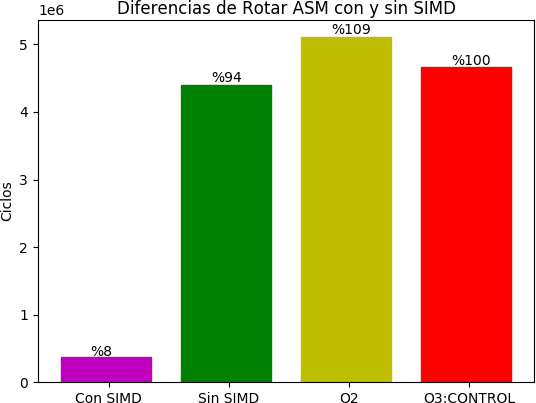
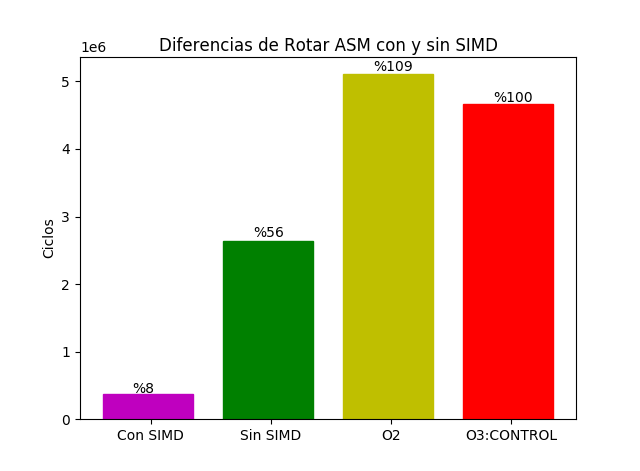
informe

diff --git a/informe/Rotar.tex b/informe/Rotar.tex
@@ -50,14 +50,15 @@ Luego se guarda en memoria en la imagen destino, se incrementa el contador en 4 
 \par{La hipótesis que tuvimos sobre la primera idea era que efectivamente íbamos a notar un cambio ya que íbamos a estar procesando la mitad de píxeles por iteración. También suponíamos que iba a ser más complicado manipular los píxeles al no contar con instrucciones como \textbf{shuffle}, \textbf{unpacked}, \textbf{psrlx} y \textbf{psllx}.}
 	
 \subsubsection{Resultados}
-\par{Efectivamente vimos una notoria diferencia entre el código en ASM con y sin SIMD, más aún, el código optimizado de C se encuentra casi a la par. \textcolor{red}{EXPLICACION DEL CODIGO SIN SIMD!!!!}}
+\par{Efectivamente vimos una notoria diferencia entre el código en ASM con y sin SIMD.
+Para la implementación del filtro "sin SIMD" utilizamos intrucciones de enteros y manipulamos cada pixel por separado, de esta manera nos aseguramos ya que esta implementación sea 4 veces menos eficaz. Para esto implementamos dos códigos distintos, uno cargaba de a dos píxeles, procesaba sus atributos por separado, guardaba la información en un registro de 64 bits y luego escribía a memoria. El otro cargaba cada atributo por separado, es decir leíamos de a byte y luego escribíamos de a byte. Ambos son menos eficientes que el código con instrucciones SSE, pero no se vieron  cambios significantes en el tiempo de ejecución de ambos al compararlos entre sí. En el gráfico a continuación se compra con la primera implementación explicada, que es ligeramente mejor que la segunda. En particular ambas son entre 6 y 7 veces menos eficaces que el código con SIMD aproximadamente. Atribuímos esto a que no sólo se procesa de a menos píxeles sino que también se lee de esta manera, lo que influye aún más en el tiempo de ejecución.}
 \par{A continuación adjuntamos un gráfico en el que se puede apreciar dicha diferencia.}
 	
 \begin{figure}[H]
 \centering
 \captionsetup{justification=centering}
 	\includegraphics[width = 12 cm, height = 8 cm]{imagenes/RotarSinSIMD.png}
-\caption[center]{Gráfico que compara las velocidad de las ejecuciones de las implementaciones con y sin el uso de instrucciones SSE, y también con optimizaciones de la implementación en C.}
+\caption[center]{Gráfico que compara el tiempo de ejecución de las implementaciones con y sin el uso de instrucciones SSE, y también con optimizaciones de la implementación en C.}
 \end{figure}
 
 \par{A continuación mostramos un gráfico (armado de igual manera que el anterior) donde mostramos los tiempos de ejecución del filtro implementado en ASM y en C con distintas optimizaciones.}
